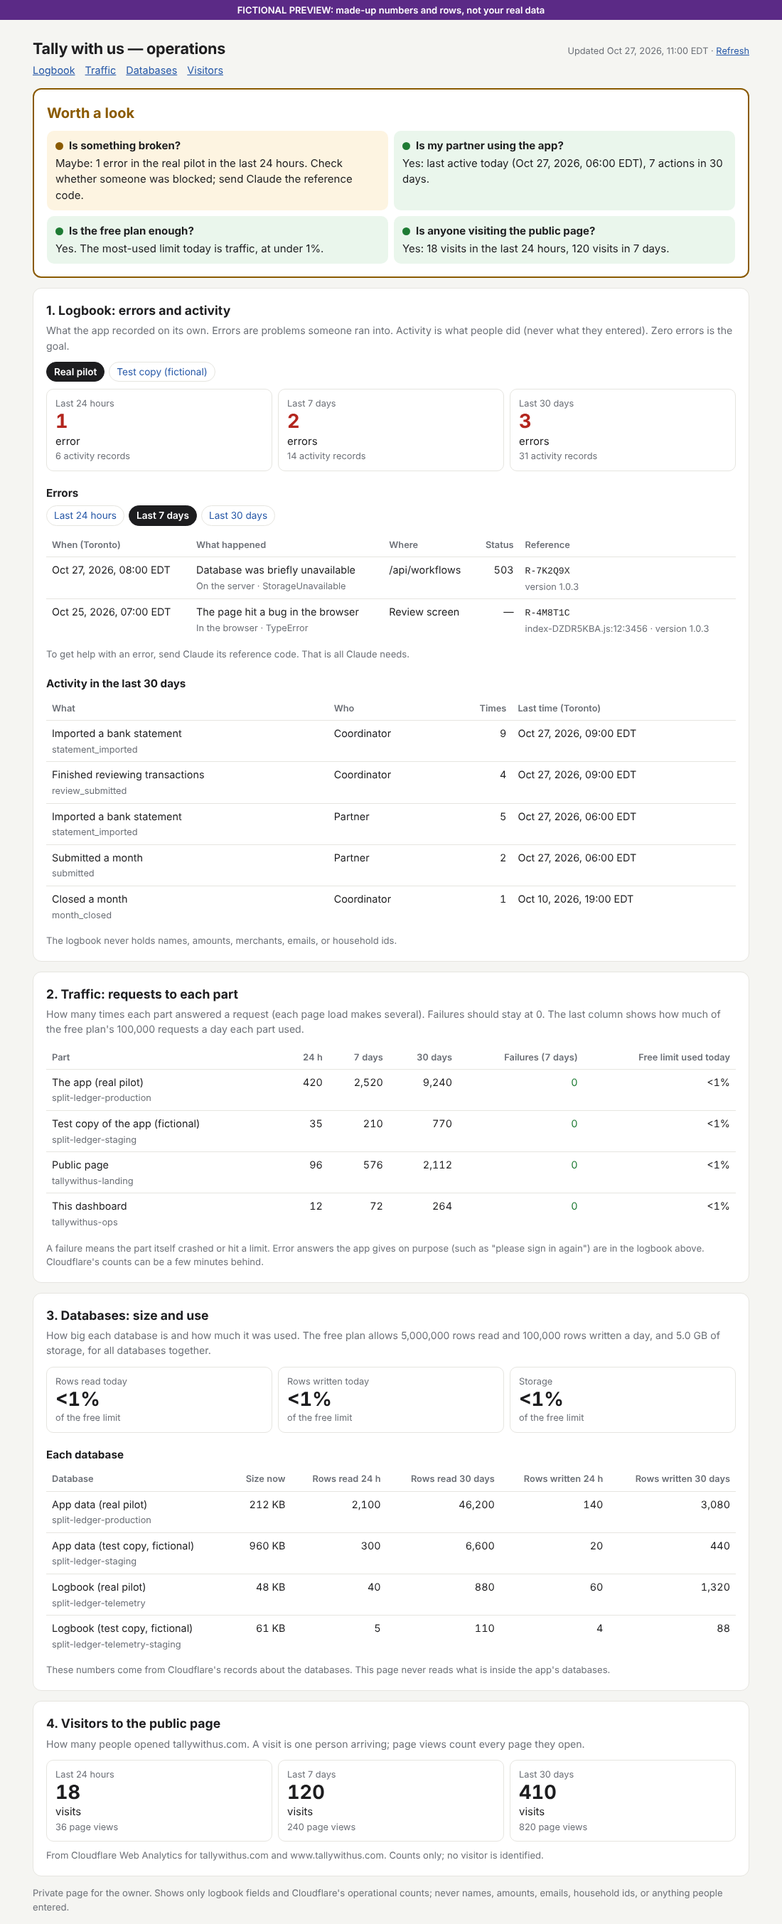
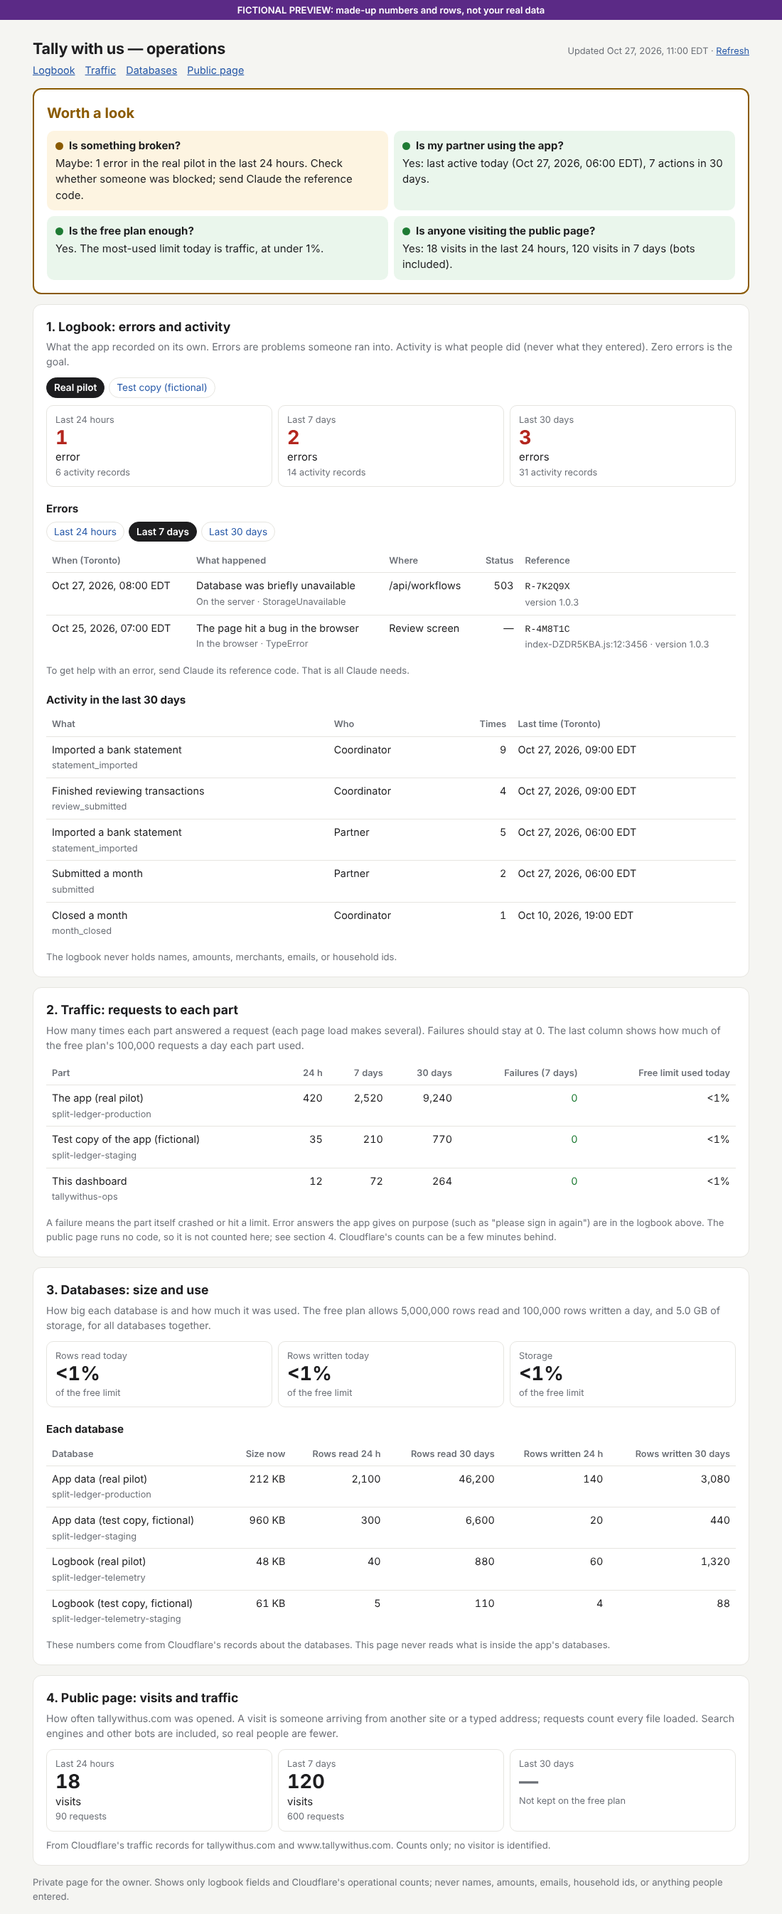
Count public page traffic from the zone's records (WEB-052)
The public page serves static files and blocks the Web Analytics script, so
Worker counts and Web Analytics always showed 0. Section 4 and the visitors
answer now read httpRequestsAdaptiveGroups for tallywithus.com and www (Zone
Analytics Read on the owner's read-only token), one request per window so a
window the free plan does not keep shows as not kept.

Claude-Session: https://claude.ai/code/session_01H7phMzBrcq1qitgQ69NEbm

diff --git a/ops-dashboard/src/cloudflare.ts b/ops-dashboard/src/cloudflare.ts
@@ -4,7 +4,9 @@
 
 import { WINDOWS, type WindowName } from './logbook'
 
-export const WORKERS = ['split-ledger-production', 'split-ledger-staging', 'tallywithus-landing', 'tallywithus-ops'] as const
+// The public page (tallywithus-landing) serves static files only, so no Worker code runs and
+// Cloudflare's Worker counts never include it; its numbers come from the zone's traffic records.
+export const WORKERS = ['split-ledger-production', 'split-ledger-staging', 'tallywithus-ops'] as const
 export const PUBLIC_HOSTS = ['tallywithus.com', 'www.tallywithus.com'] as const
 
 const GRAPHQL_URL = 'https://api.cloudflare.com/client/v4/graphql'
@@ -19,7 +21,8 @@ export type PerWindow<T> = Record<WindowName, T>
 
 export interface WorkerCounts { requests: number; errors: number }
 export interface DatabaseUsage { name: string; id: string; sizeBytes: number | null; rowsRead: PerWindow<number>; rowsWritten: PerWindow<number> }
-export interface VisitorCounts { pageViews: number; visits: number }
+/** Public page traffic for one window, from the zone's request records (bots included). */
+export interface VisitorCounts { requests: number; visits: number; serverErrors: number }
 
 function aliasFor(window: WindowName): string {
   return `w${window}`
@@ -41,10 +44,12 @@ export const D1_QUERY = windowedQuery(
   (window) => `d1AnalyticsAdaptiveGroups(limit: 100, filter: { datetime_geq: $s${window}, datetime_leq: $end }) { sum { rowsRead rowsWritten } dimensions { databaseId } }`,
 )
 
-export const VISITORS_QUERY = windowedQuery(
-  '$account: String!, $end: Time!, $s24h: Time!, $s7d: Time!, $s30d: Time!, $hosts: [String!]!',
-  (window) => `rumPageloadEventsAdaptiveGroups(limit: 100, filter: { datetime_geq: $s${window}, datetime_leq: $end, requestHost_in: $hosts }) { count sum { visits } dimensions { requestHost } }`,
-)
+// One window per request: the free plan may keep these records for less than 30 days, and a
+// window it refuses must not hide the others. "eyeball" leaves out Cloudflare's own traffic.
+export const VISITORS_QUERY =
+  'query($zone: String!, $start: Time!, $end: Time!, $hosts: [String!]!) { viewer { zones(filter: { zoneTag: $zone }) { ' +
+  'httpRequestsAdaptiveGroups(limit: 100, filter: { datetime_geq: $start, datetime_leq: $end, clientRequestHTTPHost_in: $hosts, requestSource: "eyeball" }) ' +
+  '{ count sum { visits } dimensions { edgeResponseStatus } } } } }'
 
 export function windowVariables(now: Date): Record<string, string> {
   const variables: Record<string, string> = { end: now.toISOString() }
@@ -96,14 +101,15 @@ export function parseD1Usage(json: unknown, databases: Array<{ name: string; id:
   })
 }
 
-export function parseVisitors(json: unknown): PerWindow<VisitorCounts> {
-  const data = accountData(json)
-  const result = { '24h': { pageViews: 0, visits: 0 }, '7d': { pageViews: 0, visits: 0 }, '30d': { pageViews: 0, visits: 0 } }
-  for (const window of WINDOW_NAMES) {
-    for (const group of data[aliasFor(window)] ?? []) {
-      result[window].pageViews += number(group.count)
-      result[window].visits += number(group.sum?.visits)
-    }
+export function parseVisitors(json: unknown): VisitorCounts {
+  const zones = (json as { data?: { viewer?: { zones?: unknown[] } } })?.data?.viewer?.zones
+  const groups = ((Array.isArray(zones) && zones[0] ? (zones[0] as Record<string, unknown>).httpRequestsAdaptiveGroups : []) ?? []) as Groups
+  const result = { requests: 0, visits: 0, serverErrors: 0 }
+  for (const group of groups) {
+    const requests = number(group.count)
+    result.requests += requests
+    result.visits += number(group.sum?.visits)
+    if (number(group.dimensions?.edgeResponseStatus) >= 500) result.serverErrors += requests
   }
   return result
 }
@@ -127,7 +133,7 @@ export function failureReason(status: number, json: unknown): string {
   return message ? `${prefix}: ${message.slice(0, 160)}` : prefix
 }
 
-export interface AnalyticsSettings { accountId: string; token: string; fetcher?: typeof fetch }
+export interface AnalyticsSettings { accountId: string; token: string; zoneId?: string; fetcher?: typeof fetch }
 
 async function call(settings: AnalyticsSettings, url: string, init: RequestInit): Promise<Loaded<unknown>> {
   const fetcher = settings.fetcher ?? fetch
@@ -151,7 +157,7 @@ function graphql(settings: AnalyticsSettings, query: string, variables: Record<s
   return call(settings, GRAPHQL_URL, {
     method: 'POST',
     headers: { 'content-type': 'application/json' },
-    body: JSON.stringify({ query, variables: { account: settings.accountId, ...variables } }),
+    body: JSON.stringify({ query, variables: { account: settings.accountId, zone: settings.zoneId, ...variables } }),
   })
 }
 
@@ -170,7 +176,24 @@ export async function loadDatabases(settings: AnalyticsSettings, now: Date): Pro
   return { ok: true, value: parseD1Usage(usage.value, parseDatabaseList(list.value)) }
 }
 
-export async function loadVisitors(settings: AnalyticsSettings, now: Date): Promise<Loaded<PerWindow<VisitorCounts>>> {
-  const answer = await graphql(settings, VISITORS_QUERY, { ...windowVariables(now), hosts: [...PUBLIC_HOSTS] })
-  return answer.ok ? { ok: true, value: parseVisitors(answer.value) } : answer
+/**
+ * Public page traffic per window. The last 24 hours must load; a longer window the free plan
+ * does not keep shows as null ("not kept") instead of failing the section.
+ */
+export async function loadVisitors(settings: AnalyticsSettings, now: Date): Promise<Loaded<PerWindow<VisitorCounts | null>>> {
+  if (!settings.zoneId) return { ok: false, reason: 'The zone id is not set.' }
+  const end = now.toISOString()
+  const answers = await Promise.all(WINDOW_NAMES.map((window) => graphql(settings, VISITORS_QUERY, {
+    start: new Date(now.getTime() - WINDOWS[window] * 86_400_000).toISOString(),
+    end,
+    hosts: [...PUBLIC_HOSTS],
+  })))
+  const [day] = answers
+  if (!day.ok) return day
+  const value = {} as PerWindow<VisitorCounts | null>
+  WINDOW_NAMES.forEach((window, index) => {
+    const answer = answers[index]
+    value[window] = answer.ok ? parseVisitors(answer.value) : null
+  })
+  return { ok: true, value }
 }

diff --git a/ops-dashboard/test/cloudflare.test.ts b/ops-dashboard/test/cloudflare.test.ts
@@ -1,5 +1,5 @@
 import { describe, expect, it } from 'vitest'
-import { D1_QUERY, WORKERS_QUERY, failureReason, loadDatabases, loadWorkers, parseDatabaseList, parseD1Usage, parseVisitors, parseWorkers, windowVariables } from '../src/cloudflare'
+import { D1_QUERY, VISITORS_QUERY, WORKERS_QUERY, failureReason, loadDatabases, loadVisitors, loadWorkers, parseDatabaseList, parseD1Usage, parseVisitors, parseWorkers, windowVariables } from '../src/cloudflare'
 
 const NOW = new Date('2026-10-26T12:00:00.000Z')
 const TOKEN = 'fictional-token-value'
@@ -23,7 +23,8 @@ describe('Cloudflare analytics', () => {
     }))
     expect(result['split-ledger-production']['24h']).toEqual({ requests: 15, errors: 1 })
     expect(result['split-ledger-staging']['7d']).toEqual({ requests: 99, errors: 2 })
-    expect(result['tallywithus-landing']['30d']).toEqual({ requests: 0, errors: 0 })
+    expect(result['tallywithus-ops']['30d']).toEqual({ requests: 0, errors: 0 })
+    expect(result).not.toHaveProperty('tallywithus-landing')
     expect(result).not.toHaveProperty('someone-else')
   })
 
@@ -35,10 +36,34 @@ describe('Cloudflare analytics', () => {
     expect(usage[1]).toMatchObject({ name: 'split-ledger-telemetry', rowsRead: { '24h': 12 } })
   })
 
-  it('adds up visits and page views for the public page', () => {
-    const result = parseVisitors(account({ w7d: [{ count: 30, sum: { visits: 12 }, dimensions: { requestHost: 'tallywithus.com' } }, { count: 5, sum: { visits: 4 }, dimensions: { requestHost: 'www.tallywithus.com' } }] }))
-    expect(result['7d']).toEqual({ pageViews: 35, visits: 16 })
-    expect(result['24h']).toEqual({ pageViews: 0, visits: 0 })
+  it('adds up public page requests, visits, and server errors from the zone records', () => {
+    const zone = (groups: unknown[]) => ({ data: { viewer: { zones: [{ httpRequestsAdaptiveGroups: groups }] } }, errors: null })
+    expect(parseVisitors(zone([
+      { count: 30, sum: { visits: 12 }, dimensions: { edgeResponseStatus: 200 } },
+      { count: 5, sum: { visits: 0 }, dimensions: { edgeResponseStatus: 404 } },
+      { count: 2, sum: { visits: 1 }, dimensions: { edgeResponseStatus: 503 } },
+    ]))).toEqual({ requests: 37, visits: 13, serverErrors: 2 })
+    expect(parseVisitors(zone([]))).toEqual({ requests: 0, visits: 0, serverErrors: 0 })
+    expect(VISITORS_QUERY).toContain('clientRequestHTTPHost_in: $hosts')
+    expect(VISITORS_QUERY).toContain('requestSource: "eyeball"')
+  })
+
+  it('shows a window the free plan does not keep as not kept, and needs the last 24 hours', async () => {
+    const asked: Array<{ start: string; hosts: string[]; zone: string }> = []
+    const fetcher = (async (_url: string, init: RequestInit) => {
+      const variables = JSON.parse(String(init.body)).variables
+      asked.push(variables)
+      if (variables.start === '2026-09-26T12:00:00.000Z') return Response.json({ data: null, errors: [{ message: 'cannot request data older than 7 days' }] })
+      return Response.json({ data: { viewer: { zones: [{ httpRequestsAdaptiveGroups: [{ count: 9, sum: { visits: 3 }, dimensions: { edgeResponseStatus: 200 } }] }] } } })
+    }) as unknown as typeof fetch
+    const result = await loadVisitors({ accountId: 'acc', token: TOKEN, zoneId: 'fictional-zone', fetcher }, NOW)
+    expect(result).toEqual({ ok: true, value: { '24h': { requests: 9, visits: 3, serverErrors: 0 }, '7d': { requests: 9, visits: 3, serverErrors: 0 }, '30d': null } })
+    expect(asked.map((variables) => variables.start)).toEqual(['2026-10-25T12:00:00.000Z', '2026-10-19T12:00:00.000Z', '2026-09-26T12:00:00.000Z'])
+    expect(asked[0]).toMatchObject({ zone: 'fictional-zone', hosts: ['tallywithus.com', 'www.tallywithus.com'] })
+
+    const refused = (async () => Response.json({ data: null, errors: [{ message: 'not authorized' }] })) as unknown as typeof fetch
+    expect(await loadVisitors({ accountId: 'acc', token: TOKEN, zoneId: 'z', fetcher: refused }, NOW)).toEqual({ ok: false, reason: 'Cloudflare answered with an error: not authorized' })
+    expect(await loadVisitors({ accountId: 'acc', token: TOKEN, fetcher: refused }, NOW)).toEqual({ ok: false, reason: 'The zone id is not set.' })
   })
 
   it('sends the token only as a bearer header, and never repeats it in a failure', async () => {
@@ -51,7 +76,7 @@ describe('Cloudflare analytics', () => {
     expect(result).toEqual({ ok: false, reason: 'Cloudflare answered 400: Authentication failed for x' })
     expect((seen[0].init.headers as Record<string, string>).authorization).toBe(`Bearer ${TOKEN}`)
     const body = JSON.parse(String(seen[0].init.body))
-    expect(body.variables).toMatchObject({ account: 'fictional-account', scripts: ['split-ledger-production', 'split-ledger-staging', 'tallywithus-landing', 'tallywithus-ops'] })
+    expect(body.variables).toMatchObject({ account: 'fictional-account', scripts: ['split-ledger-production', 'split-ledger-staging', 'tallywithus-ops'] })
     expect(String(seen[0].init.body)).not.toContain(TOKEN)
   })
 

diff --git a/ops-dashboard/src/render.ts b/ops-dashboard/src/render.ts
@@ -20,7 +20,7 @@ export interface PageData {
   logbook: Loaded<LogbookView>
   workers: Loaded<Record<string, PerWindow<WorkerCounts>>>
   databases: Loaded<DatabaseUsage[]>
-  visitors: Loaded<PerWindow<VisitorCounts>>
+  visitors: Loaded<PerWindow<VisitorCounts | null>>
 }
 
 const STYLE = `
@@ -155,7 +155,7 @@ ${WINDOW_NAMES.map((window) => `<td class="num">${count(counts[window].requests)
   return `<section id="workers">${heading}<div class="scroll"><table><thead>
 <tr><th>Part</th><th class="num">24 h</th><th class="num">7 days</th><th class="num">30 days</th><th class="num">Failures (7 days)</th><th class="num">Free limit used today</th></tr>
 </thead><tbody>${rows}</tbody></table></div>
-<p class="note">A failure means the part itself crashed or hit a limit. Error answers the app gives on purpose (such as "please sign in again") are in the logbook above. Cloudflare's counts can be a few minutes behind.</p></section>`
+<p class="note">A failure means the part itself crashed or hit a limit. Error answers the app gives on purpose (such as "please sign in again") are in the logbook above. The public page runs no code, so it is not counted here; see section 4. Cloudflare's counts can be a few minutes behind.</p></section>`
 }
 
 export function renderDatabases(databases: PageData['databases']): string {
@@ -181,15 +181,16 @@ export function renderDatabases(databases: PageData['databases']): string {
 }
 
 export function renderVisitors(visitors: PageData['visitors']): string {
-  const heading = `<h2>4. Visitors to the public page</h2>
-<p class="how">How many people opened tallywithus.com. A visit is one person arriving; page views count every page they open.</p>`
+  const heading = `<h2>4. Public page: visits and traffic</h2>
+<p class="how">How often tallywithus.com was opened. A visit is someone arriving from another site or a typed address; requests count every file loaded. Search engines and other bots are included, so real people are fewer.</p>`
   if (!visitors.ok) return `<section id="visitors">${heading}${failed(visitors.reason)}</section>`
-  const total = WINDOW_NAMES.reduce((sum, window) => sum + visitors.value[window].pageViews, 0)
-  if (total === 0) {
-    return `<section id="visitors">${heading}<p class="muted">No visitor statistics yet. They appear here once Cloudflare Web Analytics records visits to the public page.</p></section>`
-  }
-  const tiles = WINDOW_NAMES.map((window) => `<div class="tile"><div class="muted small">${WINDOW_LABELS[window]}</div><div class="big">${count(visitors.value[window].visits)}</div><div>visit${visitors.value[window].visits === 1 ? '' : 's'}</div><div class="muted small">${count(visitors.value[window].pageViews)} page views</div></div>`).join('')
-  return `<section id="visitors">${heading}<div class="tiles">${tiles}</div><p class="note">From Cloudflare Web Analytics for tallywithus.com and www.tallywithus.com. Counts only; no visitor is identified.</p></section>`
+  const tiles = WINDOW_NAMES.map((window) => {
+    const counts = visitors.value[window]
+    if (!counts) return `<div class="tile"><div class="muted small">${WINDOW_LABELS[window]}</div><div class="big muted">—</div><div class="muted small">Not kept on the free plan</div></div>`
+    const errors = counts.serverErrors > 0 ? `<div class="some small">${count(counts.serverErrors)} server error${counts.serverErrors === 1 ? '' : 's'}</div>` : ''
+    return `<div class="tile"><div class="muted small">${WINDOW_LABELS[window]}</div><div class="big">${count(counts.visits)}</div><div>visit${counts.visits === 1 ? '' : 's'}</div><div class="muted small">${count(counts.requests)} requests</div>${errors}</div>`
+  }).join('')
+  return `<section id="visitors">${heading}<div class="tiles">${tiles}</div><p class="note">From Cloudflare's traffic records for tallywithus.com and www.tallywithus.com. Counts only; no visitor is identified.</p></section>`
 }
 
 export function renderPage(data: PageData): string {
@@ -199,7 +200,7 @@ export function renderPage(data: PageData): string {
 <meta name="robots" content="noindex, nofollow"><title>Tally with us — operations</title><style>${STYLE}</style></head>
 <body><main>
 <header><h1>Tally with us — operations</h1><span class="muted small">Updated ${escapeHtml(torontoTime(data.now.toISOString()))} · <a href="${escapeHtml(pageHref(data.logbookName, data.errorWindow))}">Refresh</a></span></header>
-<nav><a href="#logbook">Logbook</a><a href="#workers">Traffic</a><a href="#databases">Databases</a><a href="#visitors">Visitors</a></nav>
+<nav><a href="#logbook">Logbook</a><a href="#workers">Traffic</a><a href="#databases">Databases</a><a href="#visitors">Public page</a></nav>
 ${renderGlance(health)}
 ${renderLogbook(data)}
 ${renderWorkers(data.workers)}

diff --git a/ops-dashboard/test/health.test.ts b/ops-dashboard/test/health.test.ts
@@ -7,7 +7,7 @@ const NOW = new Date('2026-10-27T15:00:00.000Z')
 const ago = (hours: number) => new Date(NOW.getTime() - hours * 3_600_000).toISOString()
 const quietWorkers = { 'split-ledger-production': { '24h': { requests: 300, errors: 0 }, '7d': { requests: 900, errors: 0 }, '30d': { requests: 2000, errors: 0 } } }
 const smallDatabases = [{ name: 'split-ledger-telemetry', id: 'x', sizeBytes: 40_000, rowsRead: { '24h': 100, '7d': 500, '30d': 900 }, rowsWritten: { '24h': 2_000, '7d': 5_000, '30d': 9_000 } }]
-const someVisitors = { '24h': { visits: 18, pageViews: 36 }, '7d': { visits: 120, pageViews: 240 }, '30d': { visits: 410, pageViews: 820 } }
+const someVisitors = { '24h': { visits: 18, requests: 90, serverErrors: 0 }, '7d': { visits: 120, requests: 600, serverErrors: 0 }, '30d': { visits: 410, requests: 2000, serverErrors: 0 } }
 
 function input(errors24h: number, errors7d: number, partnerHoursAgo: number | null = 5, overrides: Partial<HealthInput> = {}): HealthInput {
   const activity = [{ event: 'statement_imported', role: 'coordinator', times: 9, lastAt: ago(1) }]
@@ -38,7 +38,7 @@ describe('at a glance: the four questions', () => {
     expect(answer(health, QUESTIONS.broken).answer).toBe('No. No errors in the real pilot in the last 7 days.')
     expect(answer(health, QUESTIONS.partner).answer).toBe('Yes: last active today (Oct 27, 2026, 06:00 EDT), 5 actions in 30 days.')
     expect(answer(health, QUESTIONS.plan).answer).toBe('Yes. The most-used limit today is database writing, at 2%.')
-    expect(answer(health, QUESTIONS.visitors).answer).toBe('Yes: 18 visits in the last 24 hours, 120 visits in 7 days.')
+    expect(answer(health, QUESTIONS.visitors).answer).toBe('Yes: 18 visits in the last 24 hours, 120 visits in 7 days (bots included).')
   })
 
   it('is something broken: earlier errors, one error, many errors, crashes', () => {
@@ -69,8 +69,10 @@ describe('at a glance: the four questions', () => {
   })
 
   it('is anyone visiting: none yet, or counts', () => {
-    const none = { '24h': { visits: 0, pageViews: 0 }, '7d': { visits: 0, pageViews: 0 }, '30d': { visits: 0, pageViews: 0 } }
-    expect(answer(assessHealth(input(0, 0, 5, { visitors: { ok: true, value: none } })), QUESTIONS.visitors).answer).toBe('None recorded yet.')
+    const none = { visits: 0, requests: 0, serverErrors: 0 }
+    expect(answer(assessHealth(input(0, 0, 5, { visitors: { ok: true, value: { '24h': none, '7d': none, '30d': none } } })), QUESTIONS.visitors).answer).toBe('No visits recorded in the last 7 days.')
+    const dayOnly = { '24h': { visits: 4, requests: 20, serverErrors: 0 }, '7d': null, '30d': null }
+    expect(answer(assessHealth(input(0, 0, 5, { visitors: { ok: true, value: dayOnly } })), QUESTIONS.visitors).answer).toBe('Yes: 4 visits in the last 24 hours (bots included).')
   })
 
   it('says it cannot tell when numbers are missing, without alarming', () => {

diff --git a/ops-dashboard/test/page.test.ts b/ops-dashboard/test/page.test.ts
@@ -32,14 +32,14 @@ function cloudflareFetcher(seen: string[]) {
     const query = JSON.parse(String(init?.body)).query as string
     if (query.includes('workersInvocationsAdaptive')) return Response.json({ data: { viewer: { accounts: [{ w24h: [{ sum: { requests: 1234, errors: 0 }, dimensions: { scriptName: 'split-ledger-production' } }] }] } } })
     if (query.includes('d1AnalyticsAdaptiveGroups')) return Response.json({ data: { viewer: { accounts: [{ w24h: [{ sum: { rowsRead: 77, rowsWritten: 5 }, dimensions: { databaseId: 'tele' } }] }] } } })
-    return Response.json({ data: { viewer: { accounts: [{}] } } })
+    return Response.json({ data: { viewer: { zones: [{ httpRequestsAdaptiveGroups: [{ count: 50, sum: { visits: 7 }, dimensions: { edgeResponseStatus: 200 } }] }] } } })
   }) as unknown as typeof fetch
 }
 
 function setup(overrides: Partial<Env> = {}) {
   const production = fakeLogbook('PROD')
   const staging = fakeLogbook('STAGING')
-  const env: Env = { AUTH_MODE: 'access', ACCESS_TEAM_DOMAIN: TEAM, ACCESS_AUD: AUD, OWNER_EMAIL: OWNER, TELEMETRY: production.database, TELEMETRY_STAGING: staging.database, CF_ACCOUNT_ID: 'fictional-account', CF_ANALYTICS_TOKEN: TOKEN, ...overrides }
+  const env: Env = { AUTH_MODE: 'access', ACCESS_TEAM_DOMAIN: TEAM, ACCESS_AUD: AUD, OWNER_EMAIL: OWNER, TELEMETRY: production.database, TELEMETRY_STAGING: staging.database, CF_ACCOUNT_ID: 'fictional-account', CF_ANALYTICS_TOKEN: TOKEN, ZONE_ID: 'fictional-zone', ...overrides }
   const seen: string[] = []
   return { env, production, staging, seen, fetcher: cloudflareFetcher(seen) }
 }
@@ -91,8 +91,8 @@ describe('dashboard page', () => {
     expect(body).toContain('1,234')
     expect(body).toContain('split-ledger-telemetry')
     expect(body).toContain('37 KB')
-    expect(body).toContain('No visitor statistics yet')
-    expect(seen.filter((url) => url.includes('api.cloudflare.com'))).toHaveLength(4)
+    expect(body).toContain('7 visits in the last 24 hours')
+    expect(seen.filter((url) => url.includes('api.cloudflare.com'))).toHaveLength(6)
   })
 
   it('switches between the two logbooks and windows only through fixed names', async () => {

diff --git a/ops-dashboard/src/health.ts b/ops-dashboard/src/health.ts
@@ -32,7 +32,7 @@ export interface HealthInput {
   logbook: Loaded<LogbookView>
   workers: Loaded<Record<string, PerWindow<WorkerCounts>>>
   databases: Loaded<DatabaseUsage[]>
-  visitors: Loaded<PerWindow<VisitorCounts>>
+  visitors: Loaded<PerWindow<VisitorCounts | null>>
 }
 
 function plural(value: number, word: string): string {
@@ -96,10 +96,13 @@ function plan(input: HealthInput): Answer {
 
 function visitors(input: HealthInput): Answer {
   const question = QUESTIONS.visitors
-  if (!input.visitors.ok) return { question, level: 'info', answer: 'Can’t tell yet: visitor numbers are not available (see Visitors).' }
-  const { '24h': day, '7d': week } = input.visitors.value
-  if (week.visits === 0 && input.visitors.value['30d'].visits === 0) return { question, level: 'info', answer: 'None recorded yet.' }
-  return { question, level: 'good', answer: `Yes: ${plural(day.visits, 'visit')} in the last 24 hours, ${plural(week.visits, 'visit')} in 7 days.` }
+  if (!input.visitors.ok || !input.visitors.value['24h']) return { question, level: 'info', answer: 'Can’t tell yet: public page numbers are not available (see Public page).' }
+  const day = input.visitors.value['24h']
+  const week = input.visitors.value['7d']
+  const longest = week ?? day
+  if (longest.visits === 0) return { question, level: 'info', answer: `No visits recorded in the last ${week ? '7 days' : '24 hours'}.` }
+  const weekPart = week ? `, ${plural(week.visits, 'visit')} in 7 days` : ''
+  return { question, level: 'good', answer: `Yes: ${plural(day.visits, 'visit')} in the last 24 hours${weekPart} (bots included).` }
 }
 
 export function assessHealth(input: HealthInput): Health {

diff --git a/ops-dashboard/src/index.ts b/ops-dashboard/src/index.ts
@@ -12,6 +12,8 @@ export interface Env extends AuthSettings {
   /** split-ledger-telemetry-staging (fictional). Optional. */
   TELEMETRY_STAGING?: D1Database
   CF_ACCOUNT_ID?: string
+  /** The tallywithus.com zone, for the public page's traffic records. Not secret. */
+  ZONE_ID?: string
   /** Read-only Cloudflare token (Account Analytics Read, D1 Read), stored as a Worker secret. */
   CF_ANALYTICS_TOKEN?: string
 }
@@ -60,7 +62,7 @@ export async function handle(request: Request, env: Env, now: Date = new Date(),
   const logbookName: LogbookName = isLogbookName(logbookParam) && (logbookParam === 'production' || stagingAvailable) ? logbookParam : 'production'
   const database = logbookName === 'staging' ? env.TELEMETRY_STAGING : env.TELEMETRY
 
-  const settings: AnalyticsSettings | null = env.CF_ANALYTICS_TOKEN && env.CF_ACCOUNT_ID ? { accountId: env.CF_ACCOUNT_ID, token: env.CF_ANALYTICS_TOKEN, fetcher } : null
+  const settings: AnalyticsSettings | null = env.CF_ANALYTICS_TOKEN && env.CF_ACCOUNT_ID ? { accountId: env.CF_ACCOUNT_ID, token: env.CF_ANALYTICS_TOKEN, zoneId: env.ZONE_ID, fetcher } : null
   const [logbook, workers, databases, visitors] = await Promise.all([
     safeLogbook(database, now, errorWindow),
     settings ? loadWorkers(settings, now) : notConfigured,
